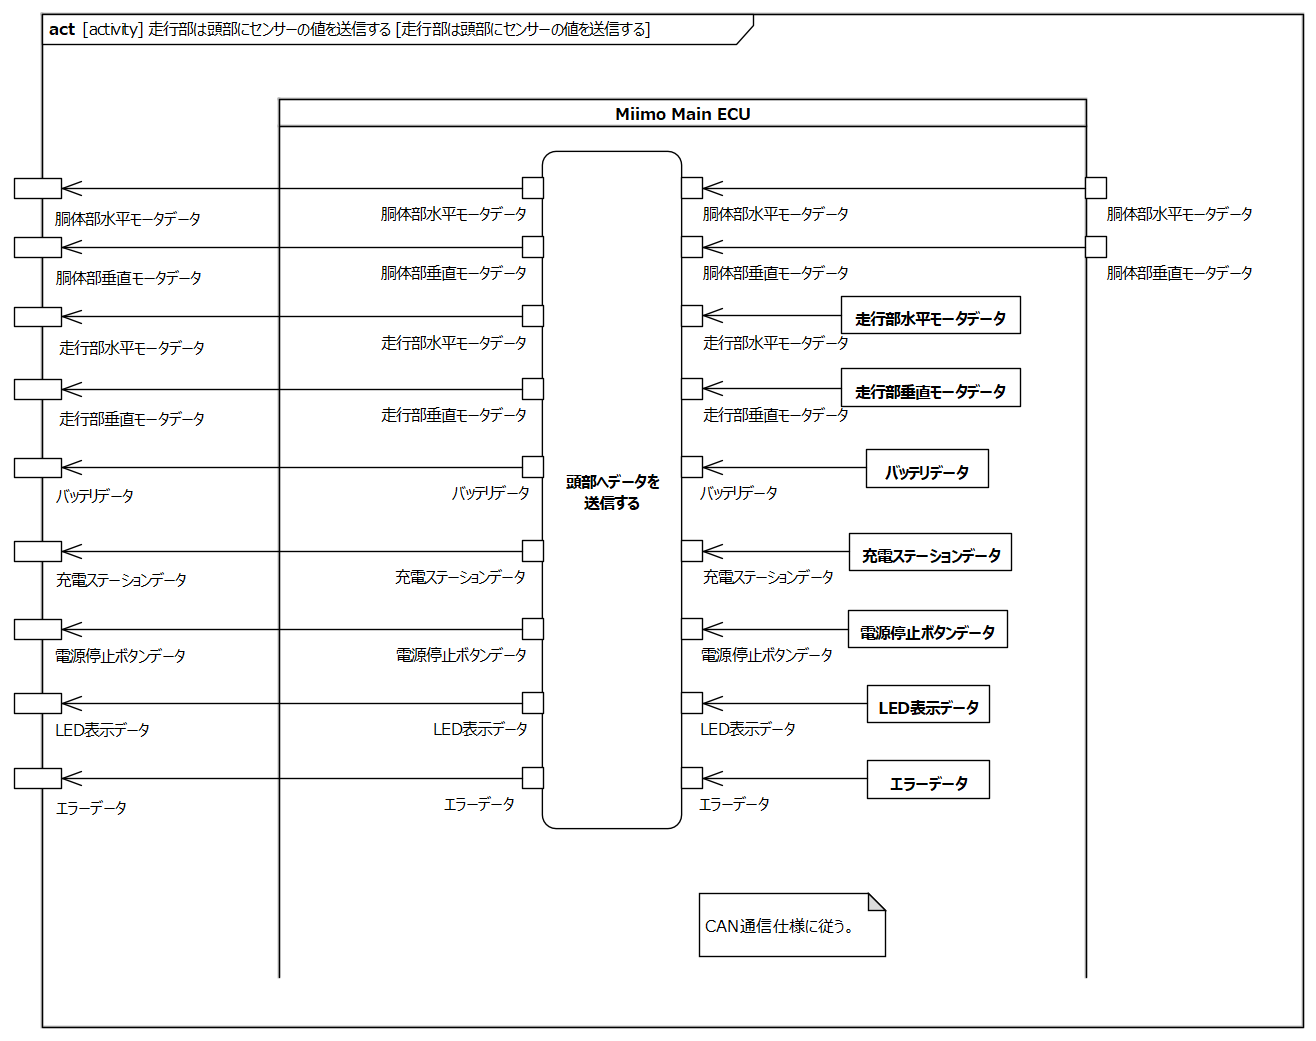
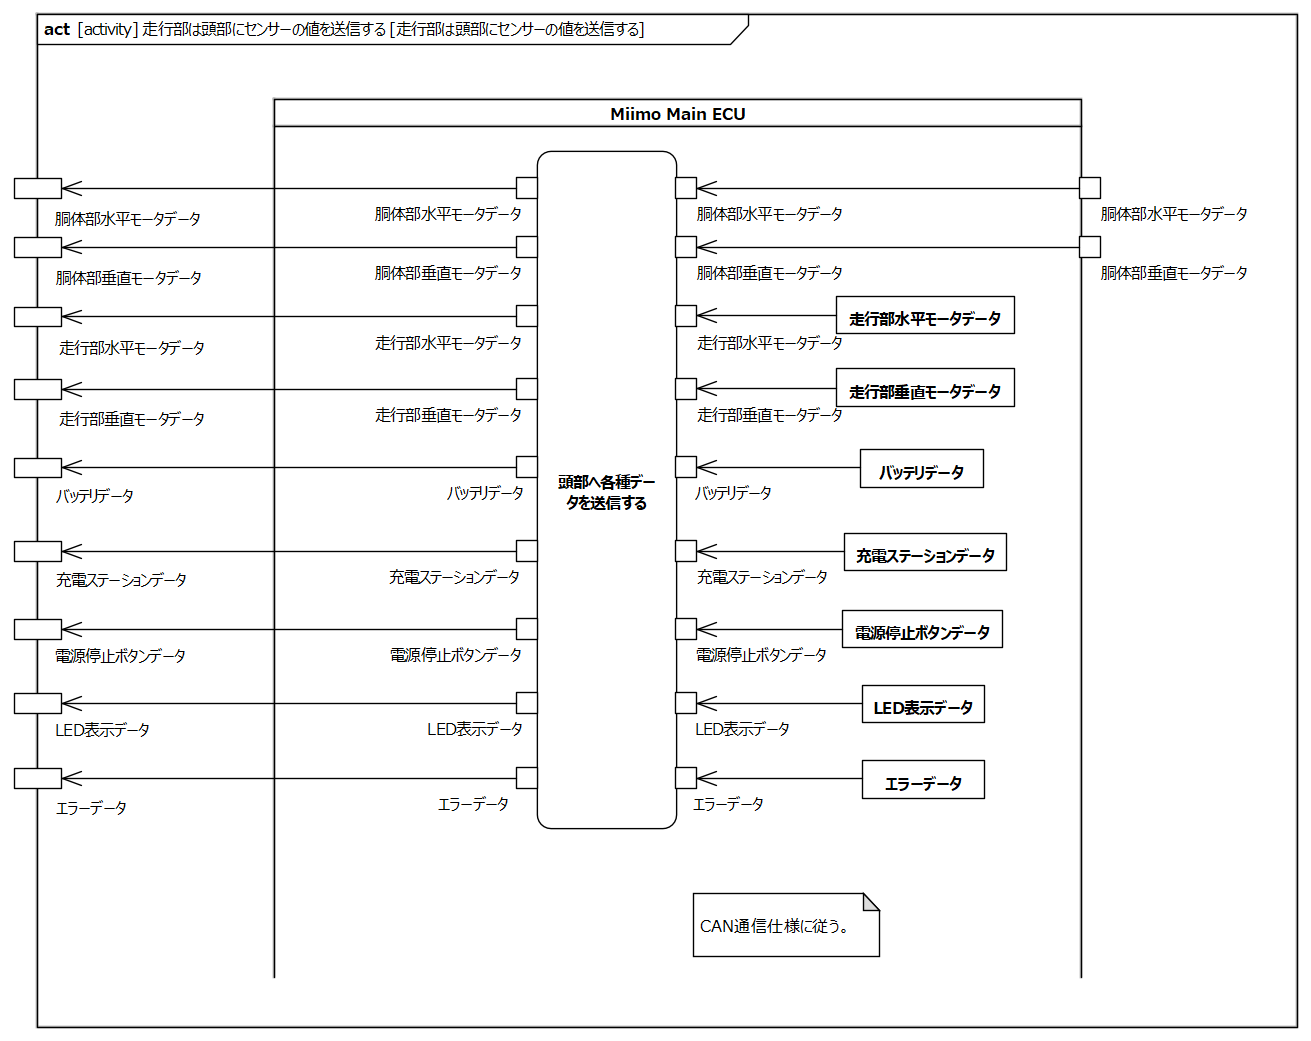
データを送信する

diff --git a/requirements/send_data.md b/requirements/send_data.md
@@ -99,5 +99,5 @@ a
 
 |要求|備考|
 |:---|:---|
-|走行部は頭部へデータを送信する||
+|走行部は頭部へ各種データを送信する||
 
